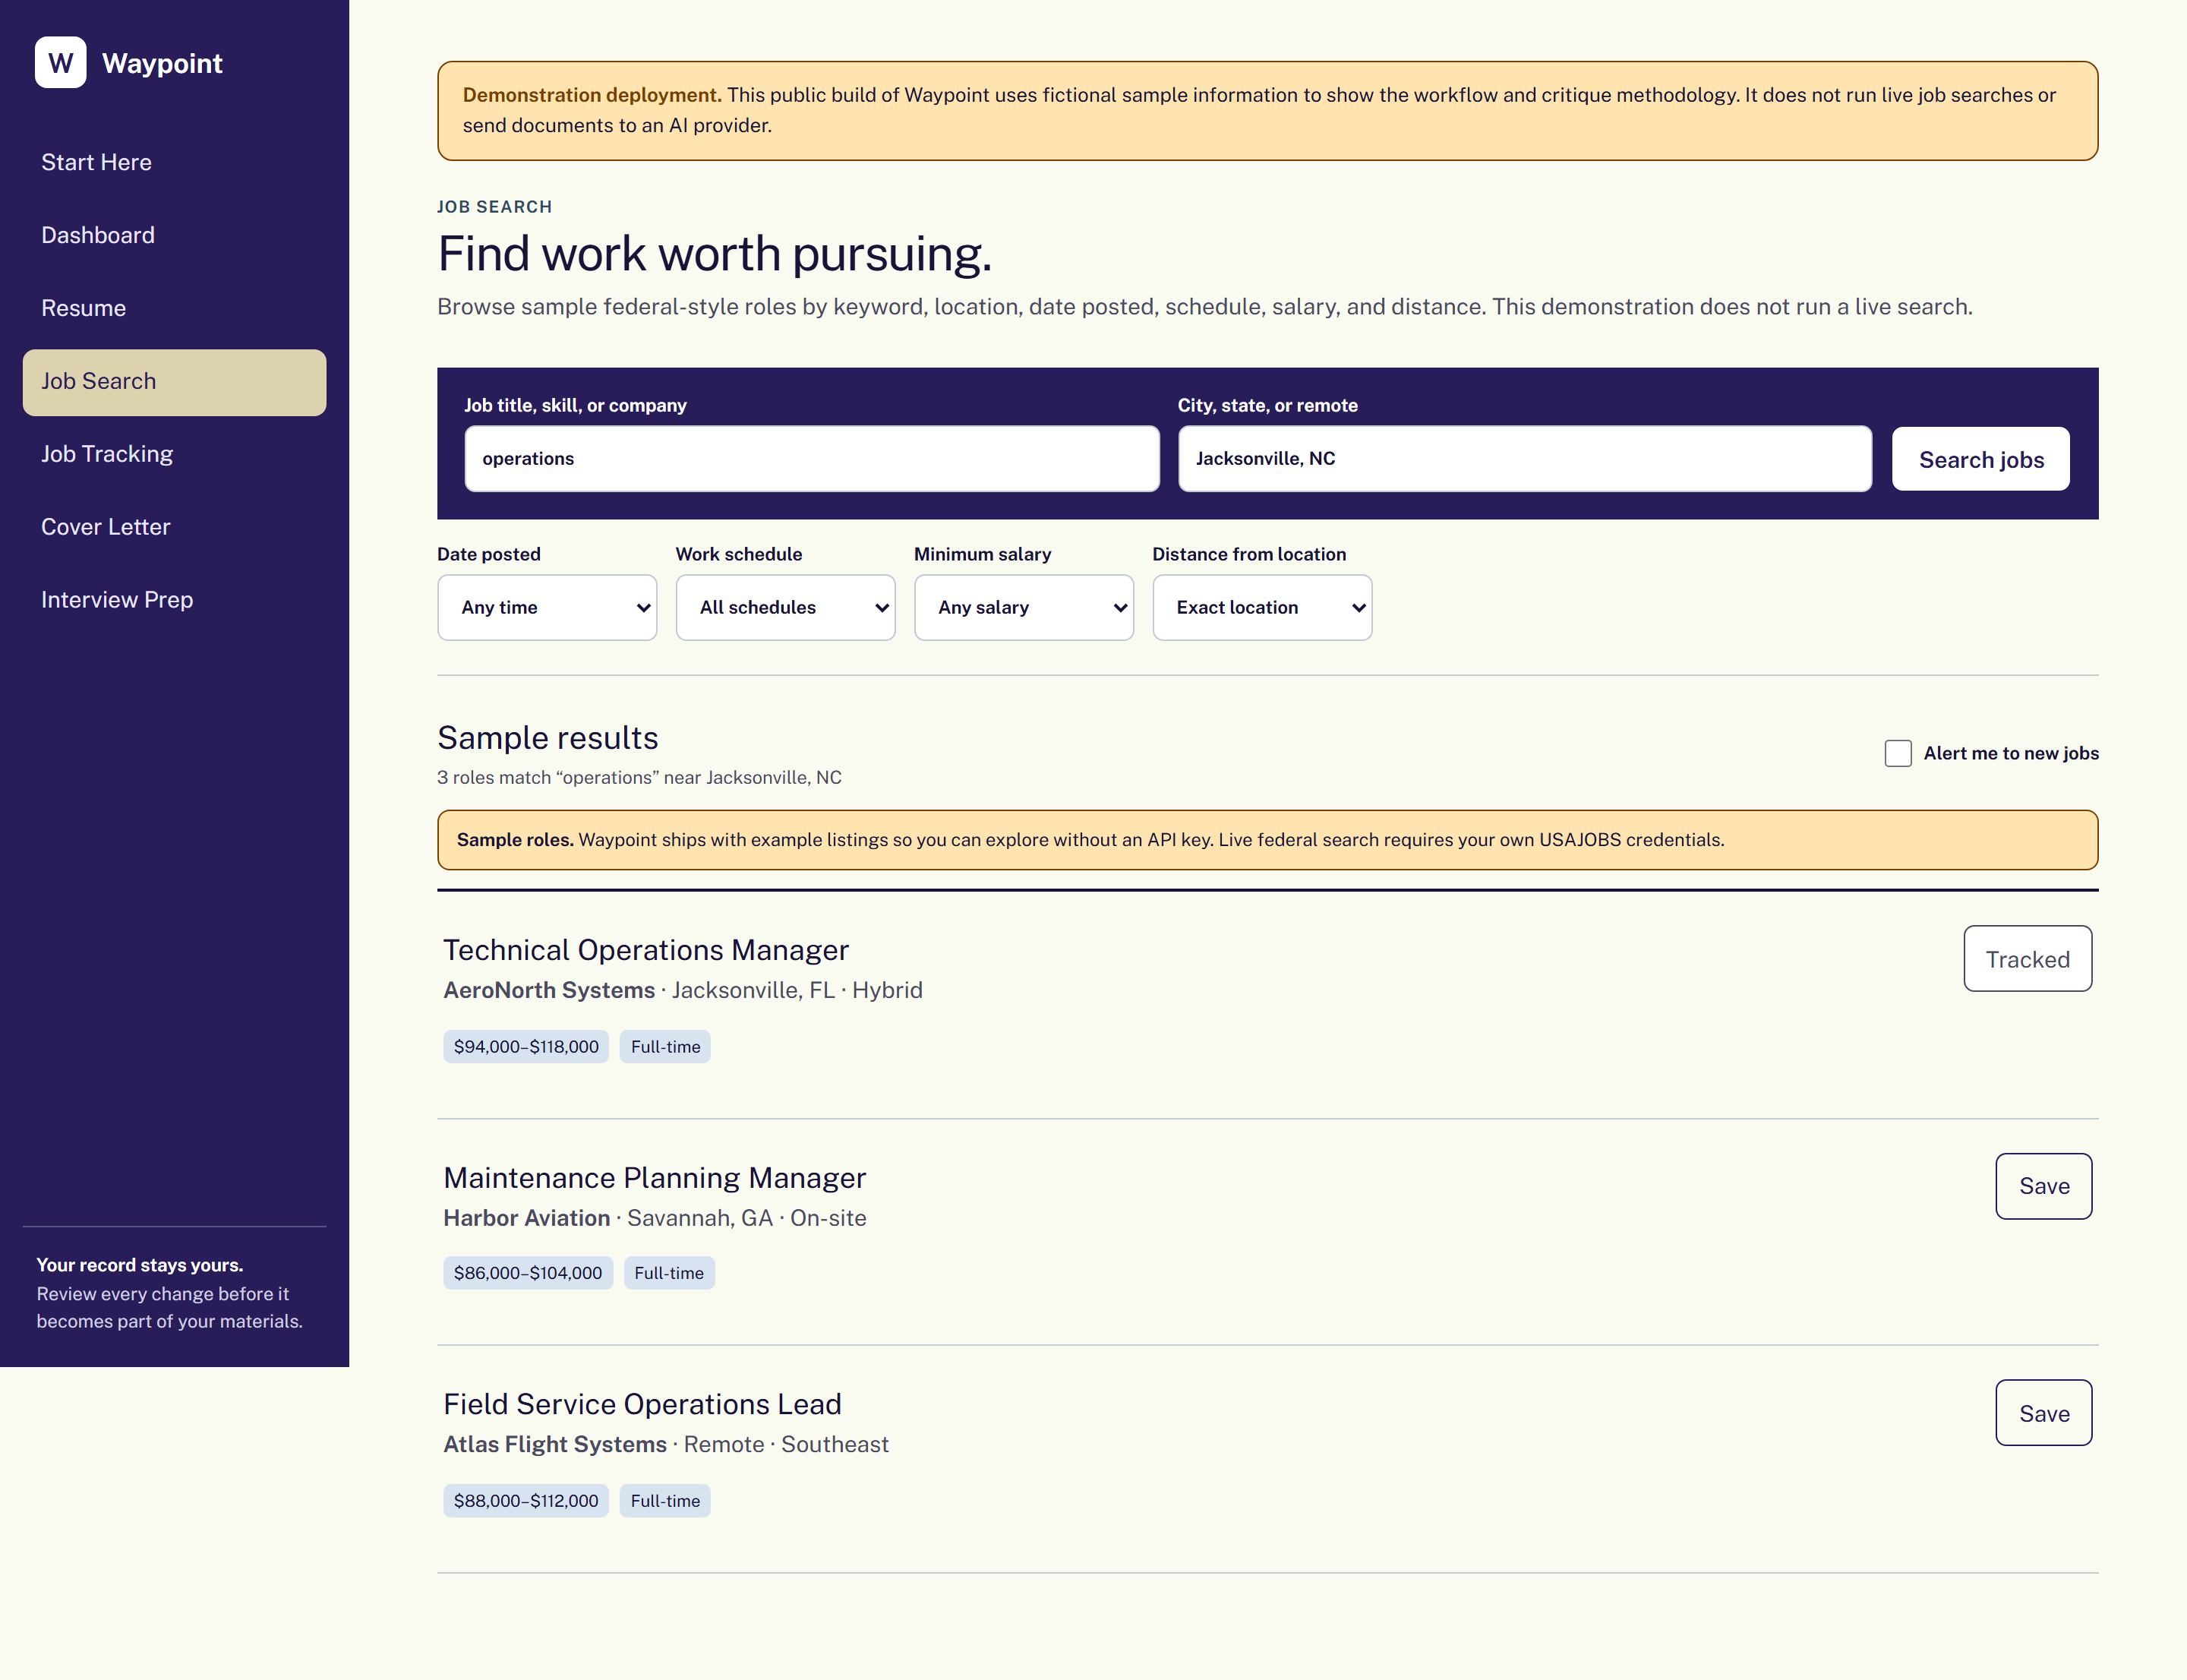
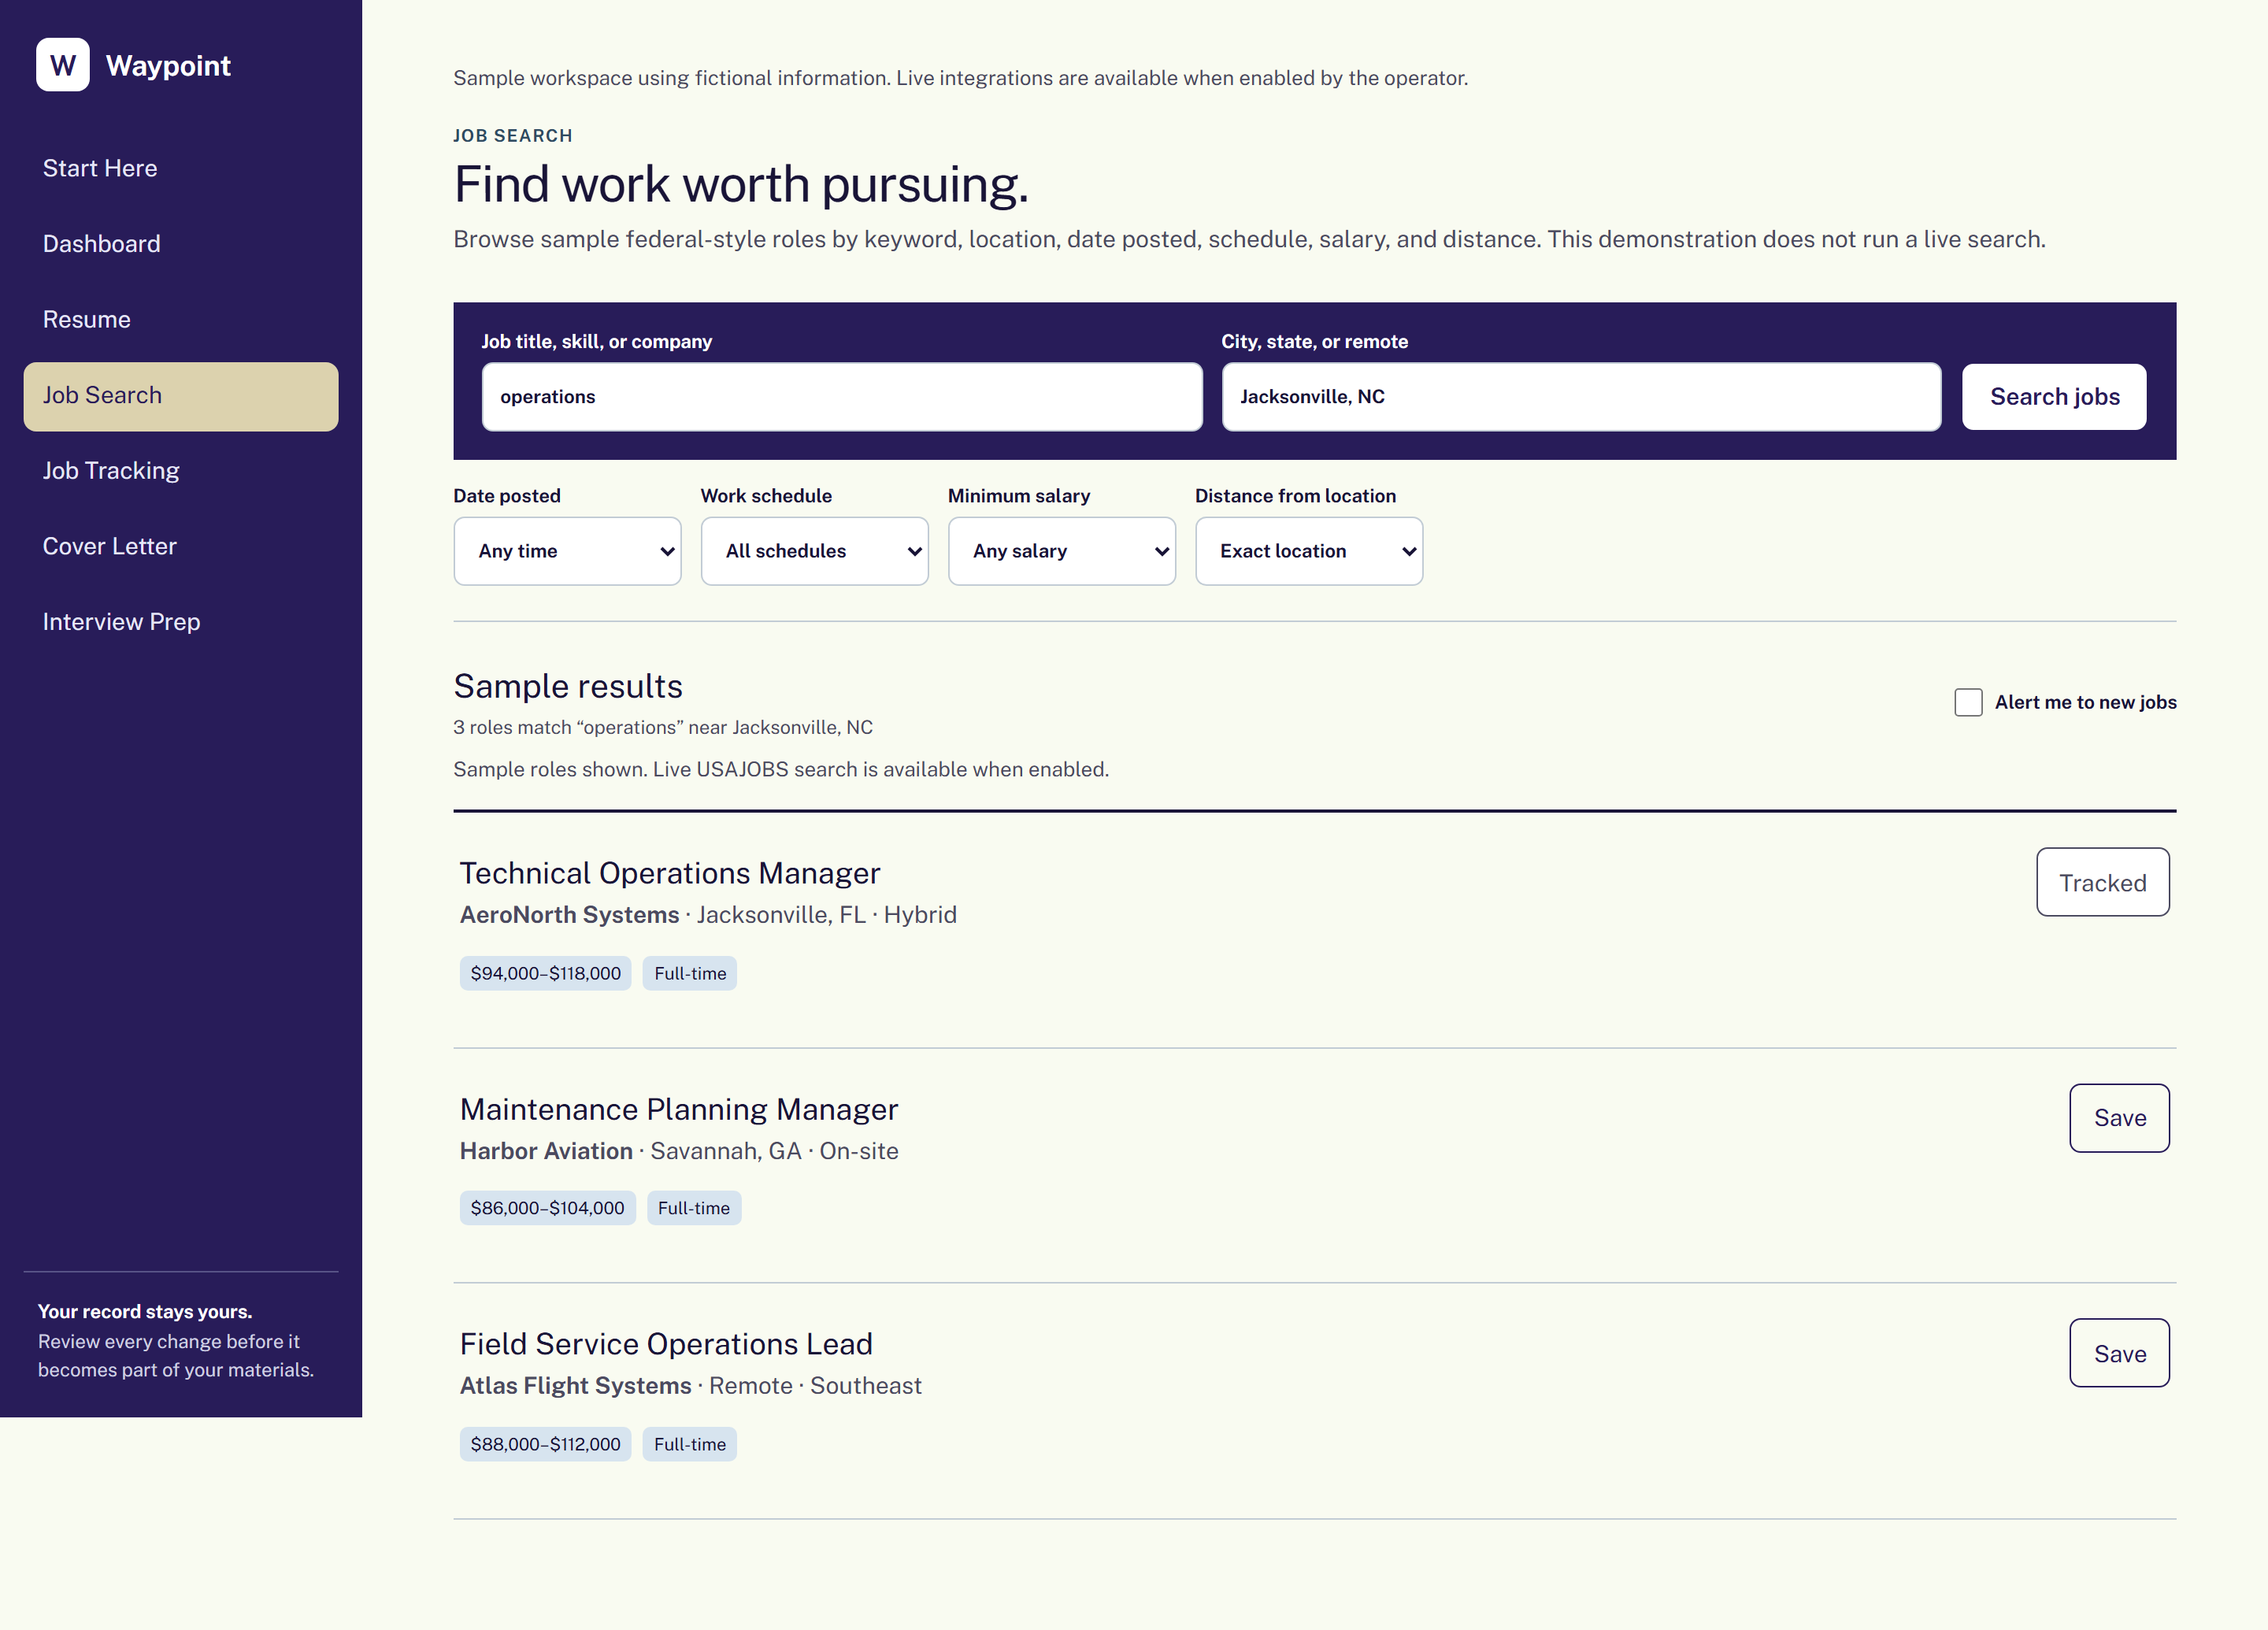
fix: understated sample notes + versioned résumé sample persistence
1. Replace the full-width demonstration banners with a small, understated
   note (no background, no border, secondary text, role="note") near each
   page heading: "Sample workspace using fictional information. Live
   integrations are available when enabled by the operator." On Job Search
   the large yellow sample box becomes a small note under the results
   heading: "Sample roles shown. Live USAJOBS search is available when
   enabled." Error messages keep their distinct treatment. No interface copy
   names env vars or tells visitors to add keys.

2. Version the seeded résumé sample (sampleId "james-carter-maintenance-v2").
   In sample mode the app restores a saved résumé only when its id matches
   the current sample; a missing or older id is discarded so the current
   James Carter résumé, findings, and decisions show instead. Live-AI mode
   never discards a user's own upload. Storage migrates to the current id.

Tests: shouldRestoreResume unit cases; a browser holding an old waypoint.resume
value still renders James Carter. Refresh README screenshots to the small-note
UI. 72 unit / 23 a11y / lint / build / tsc / diff-check all pass; no overflow
at 1440/768/375/320.

diff --git a/components/resume/ResumeStudioPage.tsx b/components/resume/ResumeStudioPage.tsx
@@ -4,6 +4,7 @@ import { requestCritique } from "@/lib/critique/client";
 import { findings, resumeDecisions } from "@/lib/demo-data";
 import { extractFileText } from "@/lib/extract-text";
 import { loadPersisted, persist } from "@/lib/persist";
+import { RESUME_SAMPLE_ID, shouldRestoreResume } from "@/lib/resume-sample";
 import { useWaypoint } from "@/lib/store";
 import type { Finding } from "@/lib/types";
 import { AiPrivacyNotice } from "@/components/review/AiPrivacyNotice";
@@ -15,6 +16,8 @@ interface SavedResume {
   decisions: string[];
   note: string;
   source: "claude" | "demo" | null;
+  /** Identifies which seeded sample this state derives from; absent for user uploads in live mode. */
+  sampleId?: string;
 }
 import { ResumeHistoryControls } from "./ResumeHistoryControls";
 import { ResumeIntake } from "./ResumeIntake";
@@ -46,6 +49,9 @@ export function ResumeStudioPage({ liveAiEnabled }: { liveAiEnabled: boolean }) 
       decisions: resumeDecisionList,
       note: resumeEvaluationNote,
       source: critiqueSource,
+      // Tag sample-mode state with the current sample id; leave a live-mode
+      // upload untagged so it is never mistaken for the seeded sample.
+      sampleId: liveAiEnabled ? undefined : RESUME_SAMPLE_ID,
       ...partial,
     });
   };
@@ -53,18 +59,26 @@ export function ResumeStudioPage({ liveAiEnabled }: { liveAiEnabled: boolean }) 
   // Restore a persisted session (deferred a tick so the contentEditable ref is mounted).
   useEffect(() => {
     const timer = setTimeout(() => {
+      if (!resumeRef.current) return;
       const saved = loadPersisted<SavedResume>("waypoint.resume");
-      if (!saved || !resumeRef.current) return;
-      resumeRef.current.innerHTML = saved.html;
-      resumeHistoryRef.current = [saved.html];
+      if (!shouldRestoreResume(saved, liveAiEnabled)) {
+        // Stale or foreign saved résumé (older/absent sample id in sample mode):
+        // keep the freshly seeded James Carter résumé and its findings/decisions,
+        // and migrate any existing stored value to the current sample.
+        if (saved) persistResume();
+        return;
+      }
+      resumeRef.current.innerHTML = saved!.html;
+      resumeHistoryRef.current = [saved!.html];
       resumeHistoryIndexRef.current = 0;
       setResumeHistoryState({ index: 0, length: 1 });
-      setResumeFindings(saved.findings);
-      setResumeDecisionList(saved.decisions ?? []);
-      setResumeEvaluationNote(saved.note);
-      setCritiqueSource(saved.source);
+      setResumeFindings(saved!.findings);
+      setResumeDecisionList(saved!.decisions ?? []);
+      setResumeEvaluationNote(saved!.note);
+      setCritiqueSource(saved!.source);
     }, 0);
     return () => clearTimeout(timer);
+    // eslint-disable-next-line react-hooks/exhaustive-deps
   }, []);
 
   useEffect(() => {

diff --git a/tests/accessibility/waypoint.spec.ts b/tests/accessibility/waypoint.spec.ts
@@ -98,6 +98,34 @@ test("Resume review shows findings and highest-leverage decisions separately", a
   expect(results.violations).toEqual([]);
 });
 
+test("an old saved résumé does not override the current James Carter sample", async ({ page }) => {
+  // Seed a stale value with no sample id, as a returning visitor's browser would hold.
+  await page.addInitScript(() => {
+    localStorage.setItem(
+      "waypoint.resume",
+      JSON.stringify({
+        html: "<h1>Jordan Reyes</h1><p>Stale resume from an earlier sample.</p>",
+        findings: [],
+        decisions: [],
+        note: "old",
+        source: "demo",
+      }),
+    );
+  });
+  await page.goto("/resume");
+
+  const editableResume = page.getByRole("article", { name: "Editable resume" });
+  await expect(editableResume.getByRole("heading", { level: 1, name: "James Carter" })).toBeVisible();
+  await expect(page.getByText("Jordan Reyes")).toHaveCount(0);
+  await expect(page.getByText("Stale resume from an earlier sample.")).toHaveCount(0);
+
+  // The seeded findings and decisions come back with the current sample.
+  await expect(page.locator(".review .finding")).toHaveCount(3);
+  await expect(
+    page.getByRole("region", { name: "Highest-leverage decisions" }).locator("ol > li"),
+  ).toHaveCount(3);
+});
+
 test("editable resume expands to contain its document before following controls", async ({ page }) => {
   await page.goto("/resume");
 

diff --git a/lib/resume-sample.ts b/lib/resume-sample.ts
@@ -1,0 +1,25 @@
+/**
+ * Versioned contract for the seeded résumé sample. Bump the id whenever the
+ * seeded James Carter résumé (or its findings/decisions) changes, so browsers
+ * holding an older saved sample fall back to the current one instead of
+ * restoring stale content over it.
+ */
+export const RESUME_SAMPLE_ID = "james-carter-maintenance-v2";
+
+/**
+ * Whether a persisted résumé should be restored on load.
+ *
+ * - Live-AI mode: the saved résumé is the user's own upload — always restore it,
+ *   never discard it over a sample-version mismatch.
+ * - Sample mode: only restore state that belongs to the current seeded sample.
+ *   A missing or older `sampleId` means the saved value predates this sample and
+ *   must be discarded so the current James Carter résumé is shown instead.
+ */
+export function shouldRestoreResume(
+  saved: { sampleId?: string } | null | undefined,
+  liveAiEnabled: boolean,
+): boolean {
+  if (!saved) return false;
+  if (liveAiEnabled) return true;
+  return saved.sampleId === RESUME_SAMPLE_ID;
+}

diff --git a/tests/quality.test.ts b/tests/quality.test.ts
@@ -4,6 +4,7 @@ import { POST as critiquePOST } from "../app/api/critique/[stage]/route";
 import { fallbackCritique } from "../lib/critique/fallback";
 import { critiqueSchema, validateCritiqueResult } from "../lib/critique/schema";
 import { searchResults } from "../lib/demo-data";
+import { RESUME_SAMPLE_ID, shouldRestoreResume } from "../lib/resume-sample";
 import {
   isOpportunityRecord,
   isPersistedOpportunityState,
@@ -647,5 +648,24 @@ describe("Résumé highest-leverage decisions contract", () => {
         scores: { relevance: 3, ownership: 3, evidence: 3, translation: 3 },
       }),
     ).toBe(true);
+  });
+});
+
+describe("Résumé sample versioning keeps old saved résumés from overriding the current sample", () => {
+  it("in sample mode, restores only a saved résumé tagged with the current sample id", () => {
+    expect(shouldRestoreResume({ sampleId: RESUME_SAMPLE_ID }, false)).toBe(true);
+  });
+
+  it("in sample mode, discards a saved résumé that is missing or has an older sample id", () => {
+    expect(shouldRestoreResume({ sampleId: "james-carter-maintenance-v1" }, false)).toBe(false);
+    expect(shouldRestoreResume({}, false)).toBe(false);
+    expect(shouldRestoreResume(null, false)).toBe(false);
+    expect(shouldRestoreResume(undefined, false)).toBe(false);
+  });
+
+  it("in live-AI mode, never discards the user's own saved résumé over a version mismatch", () => {
+    expect(shouldRestoreResume({ sampleId: "james-carter-maintenance-v1" }, true)).toBe(true);
+    expect(shouldRestoreResume({}, true)).toBe(true);
+    expect(shouldRestoreResume(null, true)).toBe(false);
   });
 });

diff --git a/styles/waypoint.css b/styles/waypoint.css
@@ -2208,20 +2208,16 @@ td small {
   font-size: 0.6875rem;
 }
 
-/* App-wide demonstration banner (public sample deployment) */
-.demo-banner {
-  background: var(--warning-soft);
-  border: 1px solid var(--warning);
-  border-radius: 10px;
-  color: var(--ink);
+/* Small, understated sample-mode note (no background, no border, secondary text) */
+.demo-note {
+  color: var(--muted);
   font-size: 0.8125rem;
-  line-height: 1.55;
-  margin: 0 0 20px;
-  padding: 12px 16px;
+  line-height: 1.5;
+  margin: 0 0 16px;
 }
 
-.demo-banner b {
-  color: var(--warning);
+.results-heading + .demo-note {
+  margin-top: -4px;
 }
 
 .sample-pdf-link {

diff --git a/components/layout/DemoMode.tsx b/components/layout/DemoMode.tsx
@@ -24,17 +24,16 @@ export function useDemonstration(): boolean {
 }
 
 /**
- * App-wide demonstration notice. Rendered as the first child inside a page's
- * `.page` container so it is part of the page content — never a top bar that
- * pushes content down (which the workflow-page layout contract forbids).
+ * App-wide demonstration notice — a small, understated line near the page
+ * heading (no background, no border, no full-width alert). Rendered as the first
+ * child inside a page's `.page` so it is part of the page content, never a top
+ * bar that pushes content down (which the workflow-page layout contract forbids).
  */
 export function DemoBanner() {
   if (!useDemonstration()) return null;
   return (
-    <div className="demo-banner" role="note" aria-label="Demonstration notice">
-      <b>Demonstration deployment.</b> This public build of Waypoint uses fictional sample information
-      to show the workflow and critique methodology. It does not run live job searches or send documents
-      to an AI provider.
-    </div>
+    <p className="demo-note" role="note">
+      Sample workspace using fictional information. Live integrations are available when enabled by the operator.
+    </p>
   );
 }

diff --git a/components/search/JobSearchPage.tsx b/components/search/JobSearchPage.tsx
@@ -109,9 +109,8 @@ export function JobSearchPage() {
         <p className="demo-notice" role="status">{unavailableMessage}</p>
       )}
       {resolved && !searching && source === "sample" && (
-        <p className="demo-notice" role="status">
-          <b>Sample roles.</b> Waypoint ships with example listings so you can explore without an
-          API key. Live federal search requires your own USAJOBS credentials.
+        <p className="demo-note" role="note">
+          Sample roles shown. Live USAJOBS search is available when enabled.
         </p>
       )}
       <div className="search-results">

diff --git a/components/review/AiPrivacyNotice.tsx b/components/review/AiPrivacyNotice.tsx
@@ -4,7 +4,7 @@ export function AiPrivacyNotice({ liveAiEnabled = false }: { liveAiEnabled?: boo
       <aside className="ai-privacy-notice" aria-label="AI privacy notice">
         <b>Your document stays in your browser</b>
         <p>This is a demonstration deployment. Evaluation runs on built-in sample logic — the text is <b>not</b> sent to any AI provider.</p>
-        <p>Live AI review is turned off here; an operator can enable it with their own key.</p>
+        <p>Live AI review is turned off here; it is available when enabled by the operator.</p>
       </aside>
     );
   }